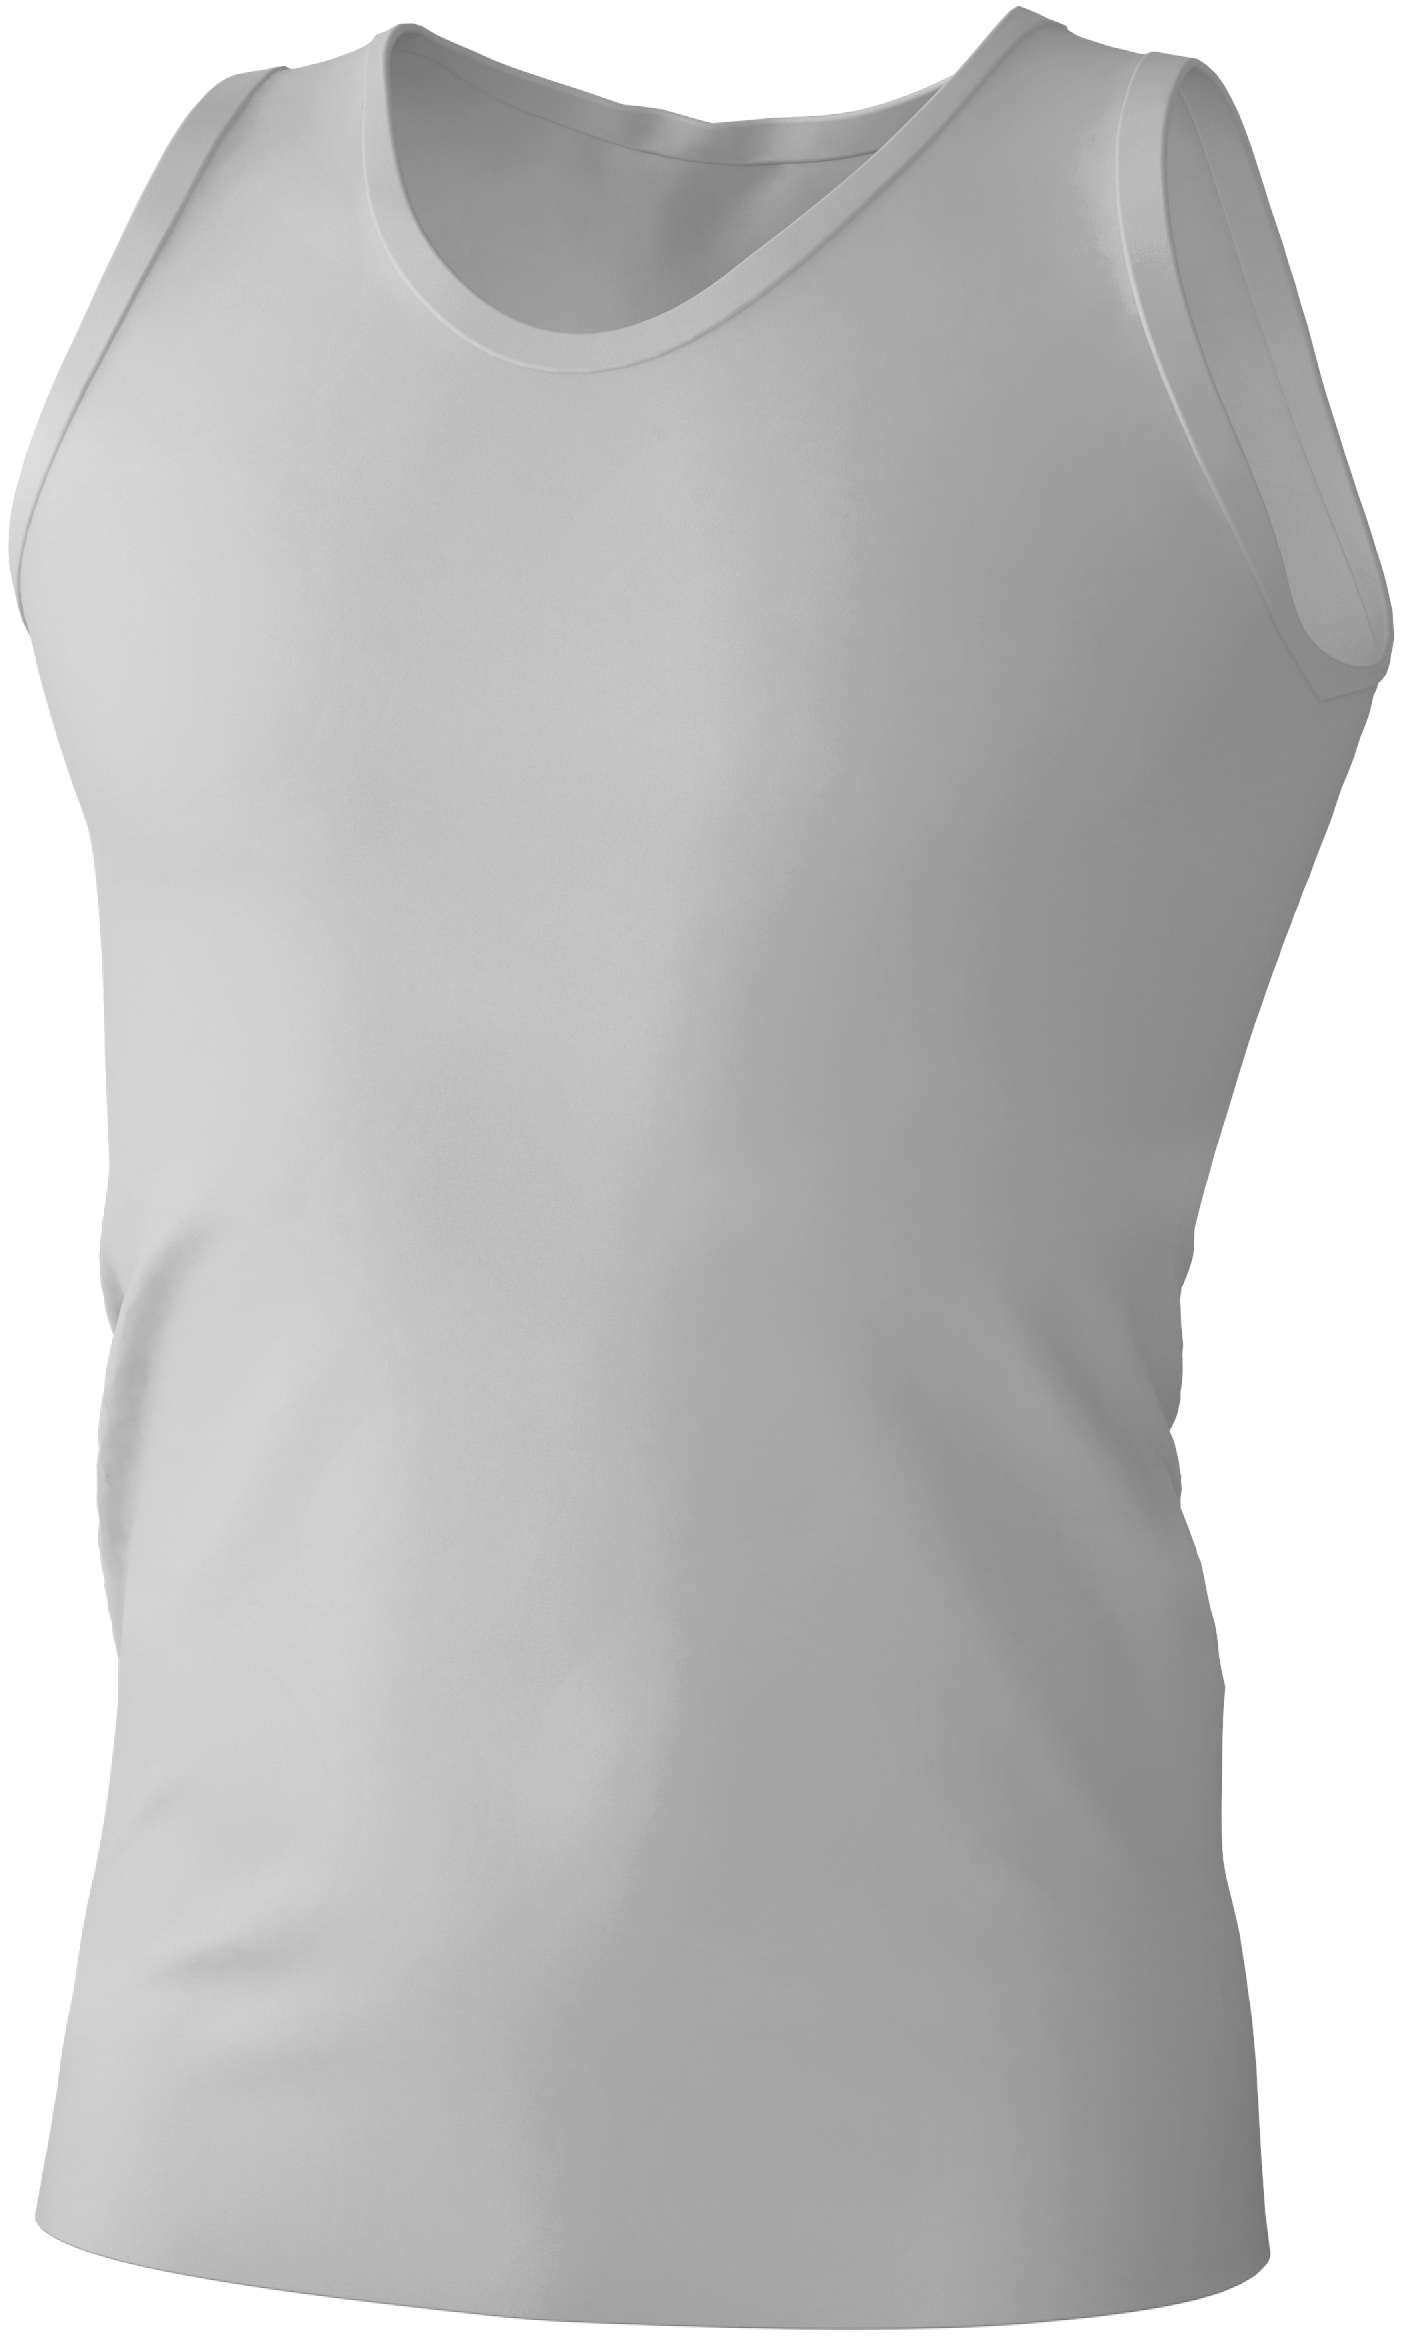
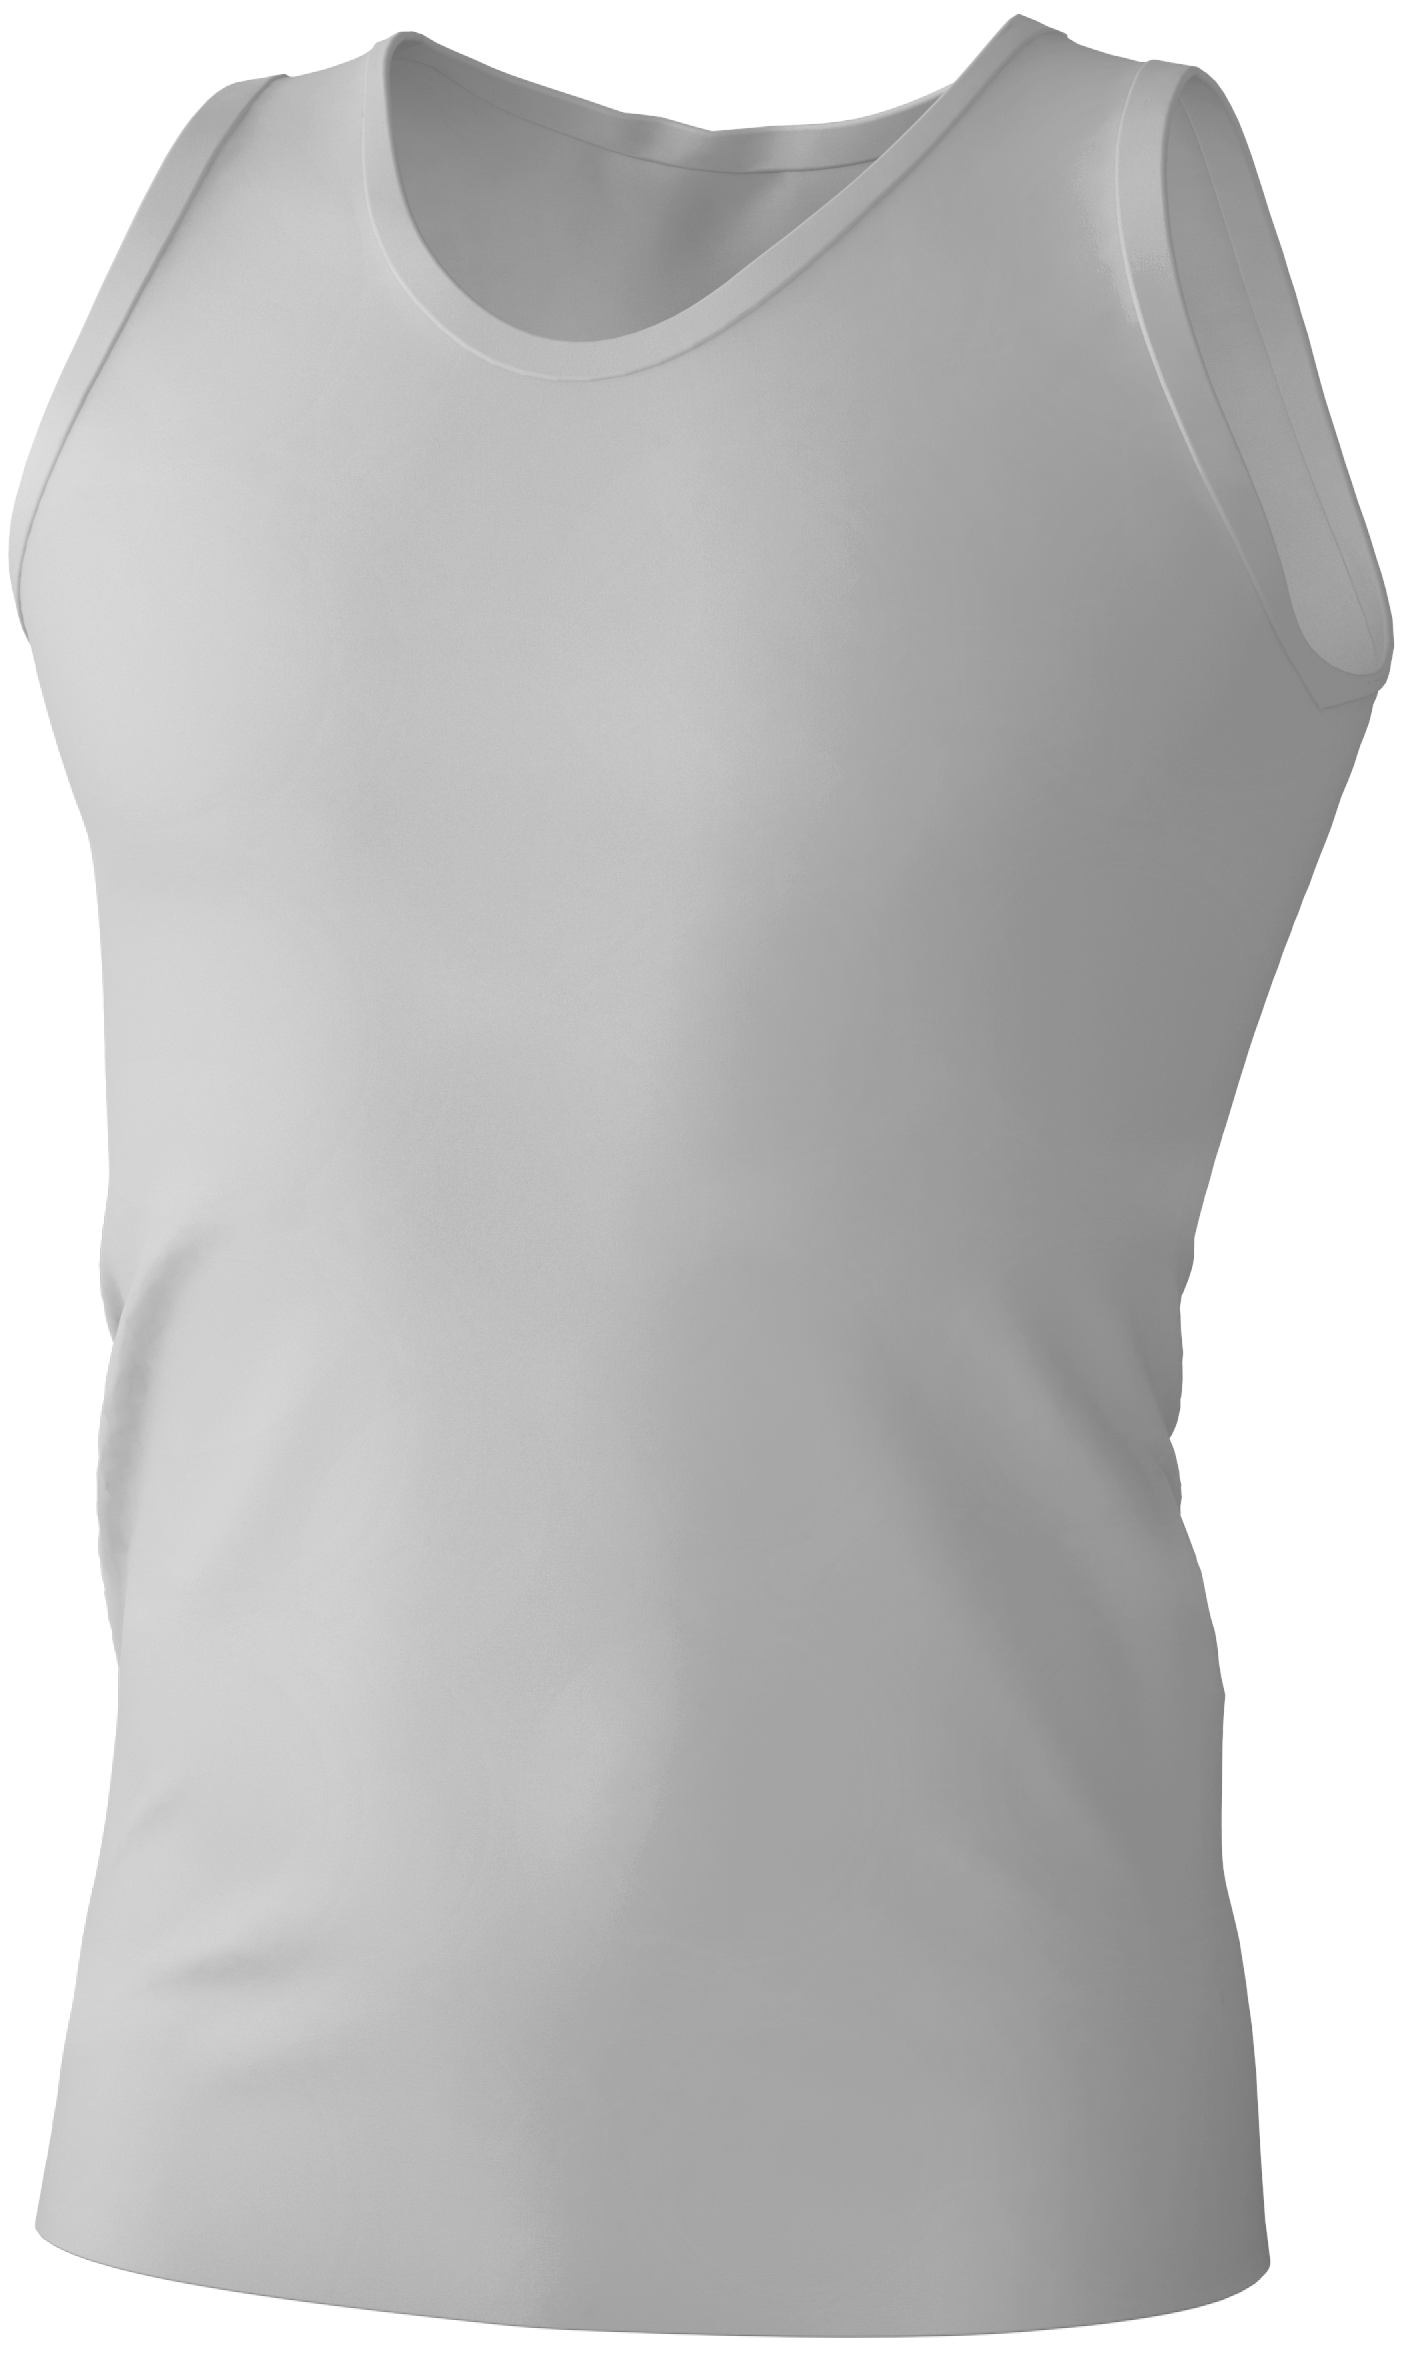
fix(mockups): edit size

diff --git a/src/modules/Frame/Frame.vue b/src/modules/Frame/Frame.vue
@@ -2,7 +2,7 @@
   <div :class="$style.container">
     <img
       :class="$style.image"
-      src="@/assets/MockupFront.png"
+      src="@/assets/Mockup.png"
       alt="Mockup"
     >
     <ModuleSketch :class="$style.sketch" />
